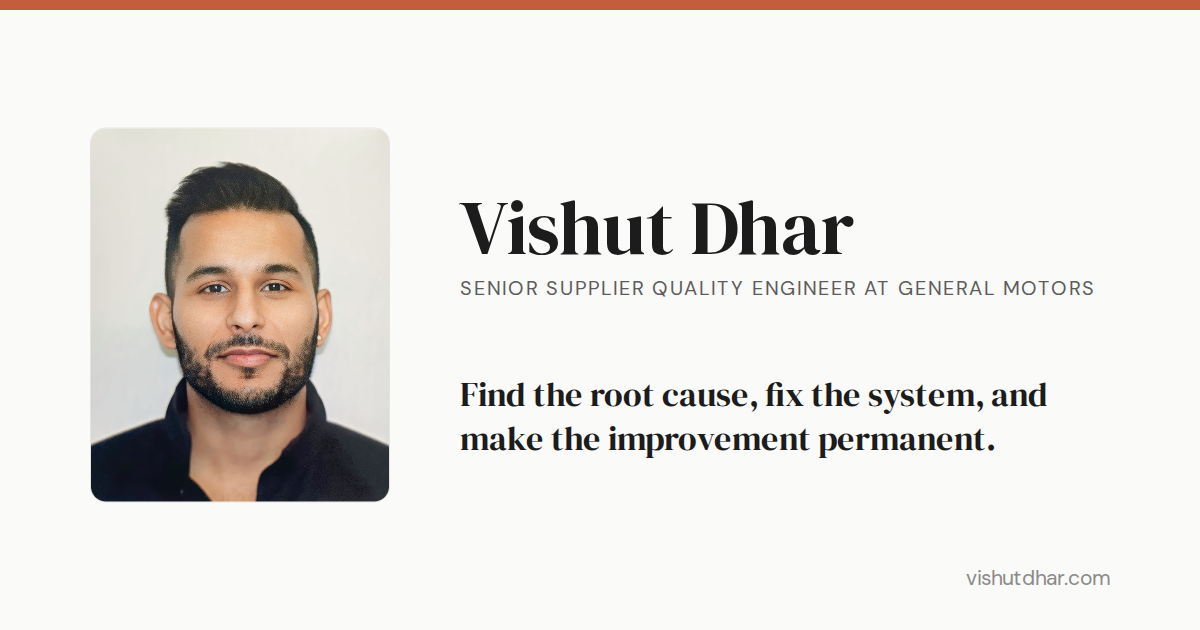
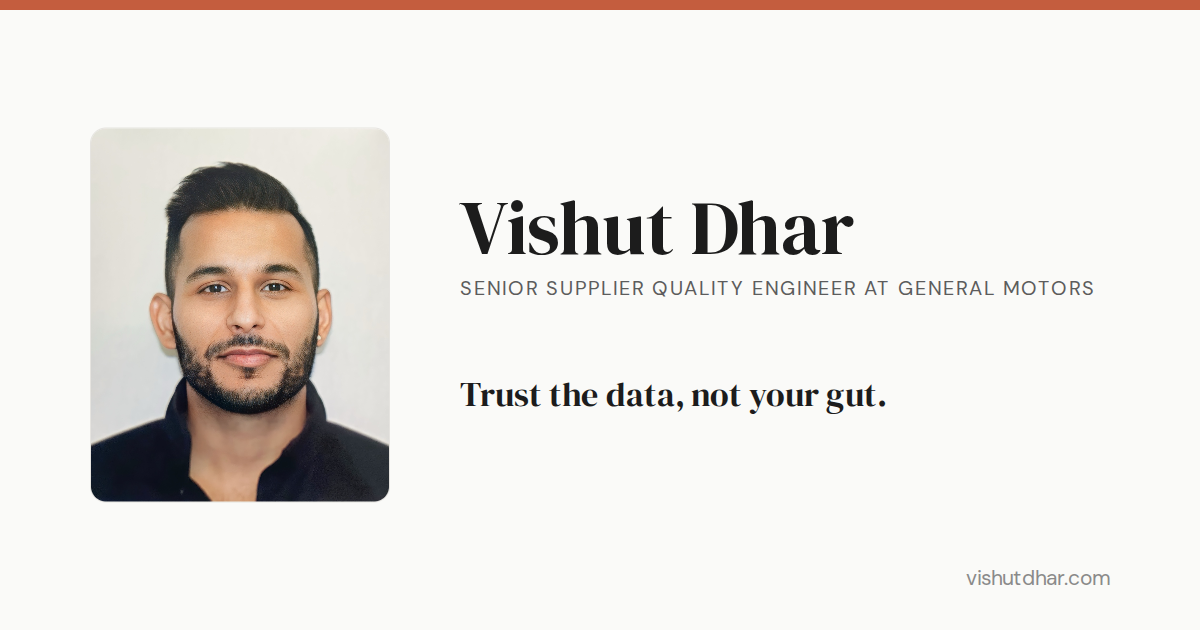
Set the hero line to "Trust the data, not your gut." (#29)
The owner's own line, and it matches the About paragraph's data-first
approach. Social card regenerated with it.

Claude-Session: https://claude.ai/code/session_017UZMHD8cxDqPAKLYduhC9t

Changed region(s): [[0.37, 0.6032, 0.8942, 0.7238]]

diff --git a/index.html b/index.html
@@ -205,7 +205,7 @@
                 <h1 data-text="Vishut Dhar">Vishut Dhar</h1>
                 <p class="hero-title">Senior Supplier Quality Engineer at General Motors</p>
                 <p class="hero-domain">EV battery and propulsion quality <span aria-hidden="true">&middot;</span> Warren, MI</p>
-                <p class="hero-lede">Find the root cause, fix the system, and make the improvement permanent.</p>
+                <p class="hero-lede">Trust the data, not your gut.</p>
                 <div class="cta-buttons">
                     <a href="#contact" class="btn btn-primary">Get In Touch</a>
                 </div>

diff --git a/styles.css b/styles.css
@@ -449,7 +449,7 @@ nav.scrolled {
     font-size: clamp(1.35rem, 2.2vw, 1.75rem);
     line-height: 1.35;
     color: var(--text-primary);
-    max-width: 22ch;
+    max-width: 28ch;
     margin-bottom: 2.25rem;
     text-wrap: balance;
 }
